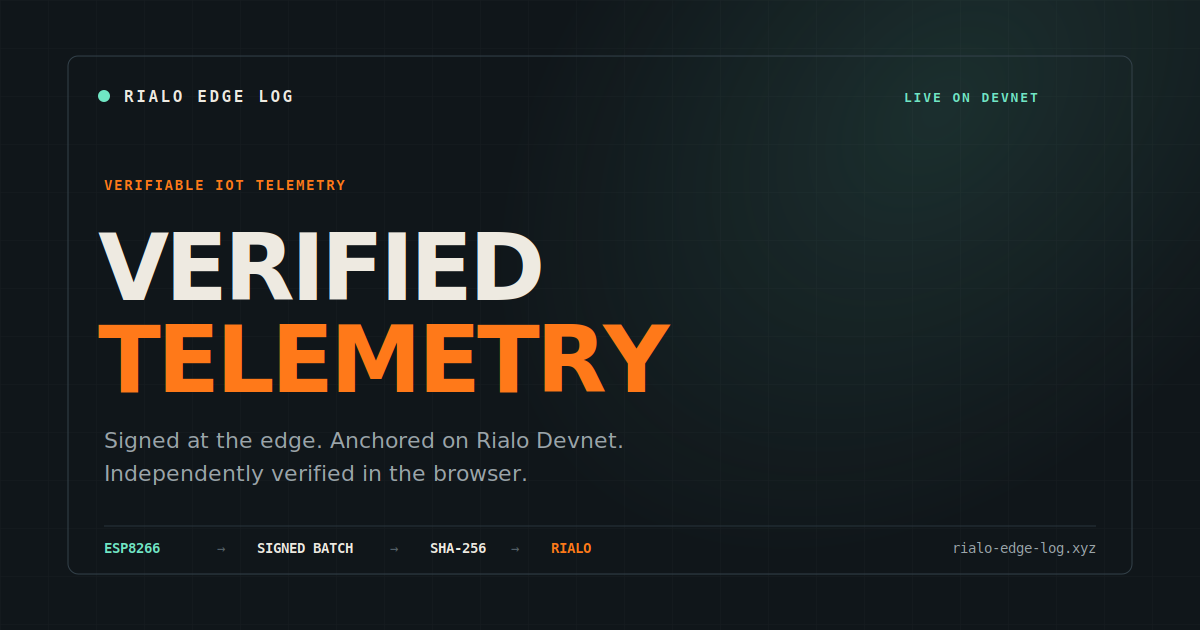
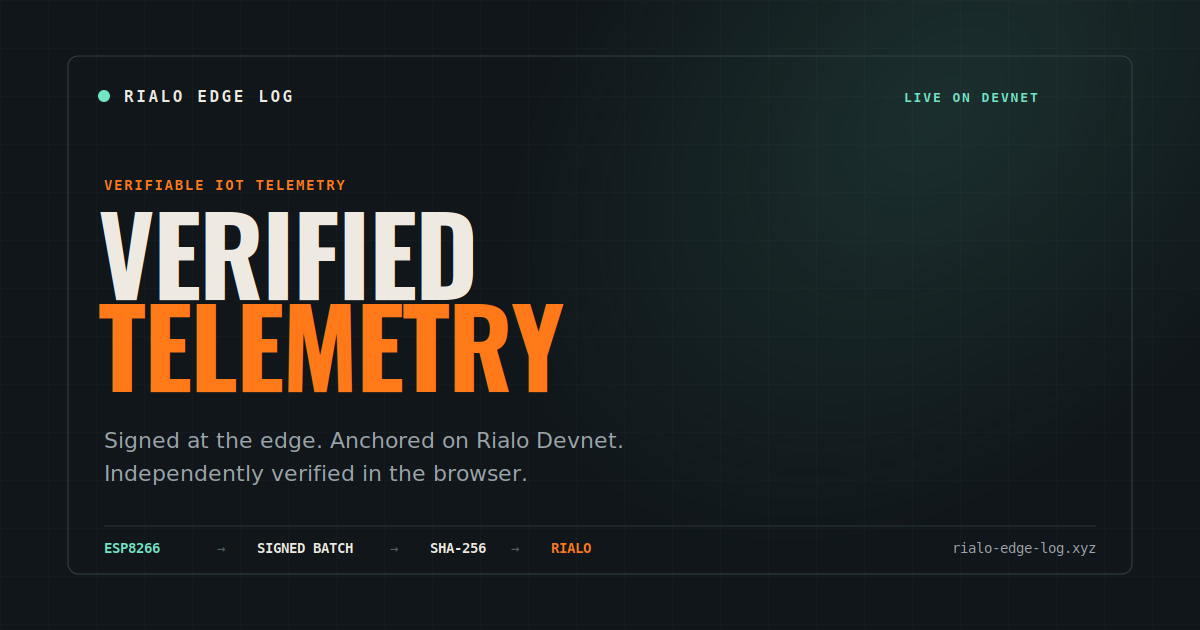
fix: match social card typography to portal
Render the preview headline with Oswald and bump the image cache key.

Changed region(s): [[0.0617, 0.3317, 0.555, 0.6333]]

diff --git a/portal/index.html b/portal/index.html
@@ -14,7 +14,7 @@
     <meta property="og:title" content="Rialo Edge Log — Verifiable Telemetry">
     <meta property="og:description" content="Signed IoT telemetry anchored on Rialo Devnet and independently verified in the browser.">
     <meta property="og:url" content="https://rialo-edge-log.xyz/">
-    <meta property="og:image" content="https://rialo-edge-log.xyz/og-image.png">
+    <meta property="og:image" content="https://rialo-edge-log.xyz/og-image.png?v=2">
     <meta property="og:image:width" content="1200">
     <meta property="og:image:height" content="630">
     <meta property="og:image:alt" content="Rialo Edge Log — signed at the edge, anchored on Rialo Devnet, verified in the browser">
@@ -24,7 +24,7 @@
     <meta name="twitter:creator" content="@ra5alghul">
     <meta name="twitter:title" content="Rialo Edge Log — Verifiable Telemetry">
     <meta name="twitter:description" content="Signed IoT telemetry anchored on Rialo Devnet and independently verified in the browser.">
-    <meta name="twitter:image" content="https://rialo-edge-log.xyz/og-image.png">
+    <meta name="twitter:image" content="https://rialo-edge-log.xyz/og-image.png?v=2">
     <meta name="twitter:image:alt" content="Rialo Edge Log — signed at the edge, anchored on Rialo Devnet, verified in the browser">
     <meta name="theme-color" content="#11171c">
     <link rel="icon" href="/favicon.svg" type="image/svg+xml">

diff --git a/tests/test_portal.py b/tests/test_portal.py
@@ -206,7 +206,7 @@ class PortalTests(unittest.TestCase):
             self.assertIn('href="https://github.com/robotek8/rialo-edge-log"', html)
             self.assertIn('href="https://x.com/ra5alghul"', html)
             self.assertIn('href="https://t.me/Ras_a1_Ghu1"', html)
-            self.assertIn('property="og:image" content="https://rialo-edge-log.xyz/og-image.png"', html)
+            self.assertIn('property="og:image" content="https://rialo-edge-log.xyz/og-image.png?v=2"', html)
             self.assertIn('name="twitter:card" content="summary_large_image"', html)
             self.assertIn('id="limits-title"', html)
 
